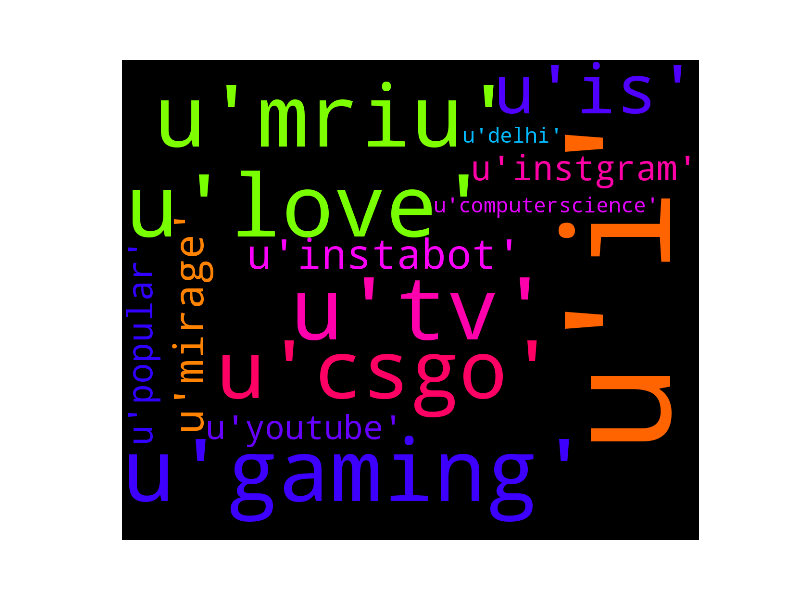
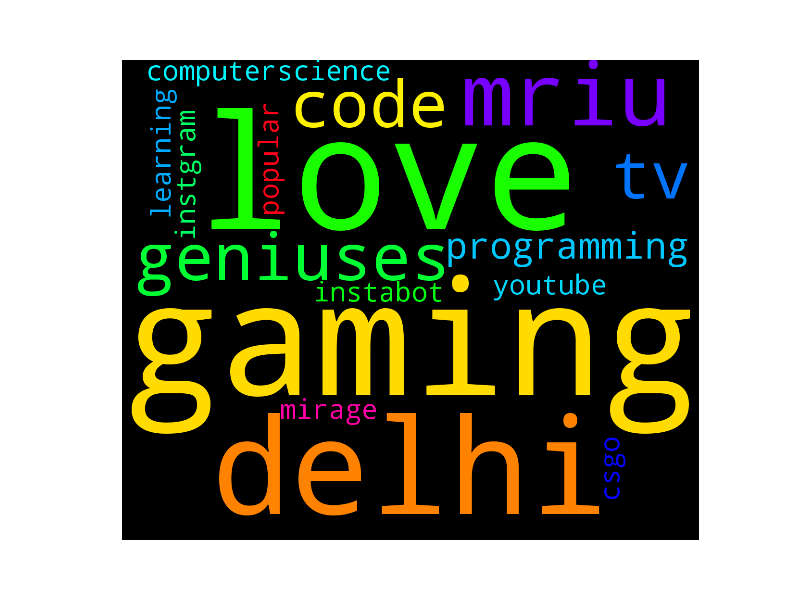
Wordcloud error fixed.

Changed region(s): [[0.1562, 0.09, 0.875, 0.87]]

diff --git a/instabot.py b/instabot.py
@@ -1,10 +1,11 @@
+# IMPORTING LIBRARIES
+
 #Importing requests and urlib packages.
 import requests , urllib
 
-#Importing termcolor
+#Importing termcolor - to display a colored output.
 from termcolor import colored
 
-import re
 #Importing textblob - to analyze the sentiments of the comments.
 from textblob import TextBlob
 from textblob.sentiments import NaiveBayesAnalyzer
@@ -17,6 +18,8 @@ import matplotlib.pyplot as plt
 
 
 
+
+
 #This is the access token for accessing the instagram API
 APP_ACCESS_TOKEN = '286308105.a90ec70.7691dca881004b60b57db1cc85505c1e'
 
@@ -25,7 +28,6 @@ APP_ACCESS_TOKEN = '286308105.a90ec70.7691dca881004b60b57db1cc85505c1e'
 
 #This is the base URL for the instagram API.
 BASE_URL = 'https://api.instagram.com/v1/'
-
 
 
 
@@ -80,7 +82,6 @@ def fetch_user_id(insta_username):
 
 
 
-
 # 2. Function declaration to get the info of a user by username
 
 def fetch_user_info(insta_username):
@@ -110,7 +111,6 @@ def fetch_user_info(insta_username):
 
 
 
-
 # 3. Function declaration to get any post of your own account.(range 0-19)
 
 def fetch_your_own_post():
@@ -132,7 +132,6 @@ def fetch_your_own_post():
 
     else:
         print colored('Status code other than 200 received!','red')
-
 
 
 
@@ -169,6 +168,8 @@ def fetch_user_post(insta_username):
 
 
 
+
+
 # Function to retrieve own post id
 
 def fetch_own_post_id():
@@ -183,7 +184,6 @@ def fetch_own_post_id():
             print colored('Post does not exist!','red')
     else:
         print colored('Status code other than 200 received!','red')
-
 
 
 
@@ -217,8 +217,6 @@ def get_post_id(insta_username):
 
 
 
-
-
 # Working
 # 5. Function declaration to get a list of the likers for a particular post.
 
@@ -243,8 +241,6 @@ def fetch_like_list(insta_username):
 
 
 
-
-
 #Working
 # 6. Function declarartion to post a like on the user's media.
 
@@ -259,6 +255,10 @@ def like_a_post(insta_username):
         print colored('Like was successful!','green')
     else:
         print colored('Your like was unsuccessful. Please try again!','red')
+
+
+
+
 
 # Working
 # 7. Function declaration to get the comment list from the user's post.
@@ -286,6 +286,9 @@ def get_comments_list(insta_username):
         print colored("Status code other than 200", 'red')
 
 
+
+
+
 #Working
 # 8. Function declaration to post a comment on a user's media
 
@@ -301,8 +304,6 @@ def post_a_comment(insta_username):
         print colored('Successfully added a new comment!','green')
     else:
         print colored('Unable to add comment. Please try again!','red')
-
-
 
 
 
@@ -352,10 +353,6 @@ def delete_negative_comments(insta_username):
 
 
 
-
-
-
-
 # 10. Function to get the list of hashtags of all the posts of a user.
 
 def hashtag_analysis(insta_username):
@@ -374,15 +371,19 @@ def hashtag_analysis(insta_username):
     if user_media['meta']['code'] == 200:
         if len(user_media):
             for x in range(len(user_media['data'])):
-                hashtags = user_media['data'][x]['tags']
-                print hashtags
-                Hashtag_list.append(hashtags)
-                str1 = str(Hashtag_list)
+                for hashtags in (user_media['data'][x]['tags']):
 
-                generate_wordcloud(str1)
+                    Hashtag_list.append(hashtags)
 
 
 
+            # Creating a string that would hold the values of the Hashtag_list.
+            str = " "
+
+            # Now the .join() method will be used to return a string in which the elements of Hashtag_list would be joined to 'str'
+
+            str = str.join(Hashtag_list)
+            generate_wordcloud(str)
 
         else:
             print colored("Media doesn't exist", 'red')
@@ -391,14 +392,16 @@ def hashtag_analysis(insta_username):
 
 
 
+
+
 # Function to generate a wordcloud of the hashtags retrieved.
 
-def generate_wordcloud(str1):
+def generate_wordcloud(str):
 
     wordcloud = WordCloud(stopwords=STOPWORDS, background_color='black',
-                        width=1200, height=1000).generate(str1)
+                        width=1200, height=1000).generate(str)
 
-    plt.imshow(wordcloud)
+    plt.imshow(wordcloud, interpolation="bilinear")
     plt.axis('off')
     plt.savefig('wordcloud.png')
     plt.show()
@@ -435,7 +438,7 @@ def own_comment_info():
 
 def recently_liked():
 
-    request_url = (BASE_URL + 'users/self/media/liked?access_token=%s') % (  APP_ACCESS_TOKEN)
+    request_url = (BASE_URL + 'users/self/media/liked?access_token=%s') % (APP_ACCESS_TOKEN)
     print 'GET request url : %s' % (request_url)
     recent_liked_media = requests.get(request_url).json()
 
@@ -449,11 +452,6 @@ def recently_liked():
             print colored('No media found.','red')
     else:
         print colored('Status code other than 200 received.','red')
-
-
-
-
-
 
 
 
